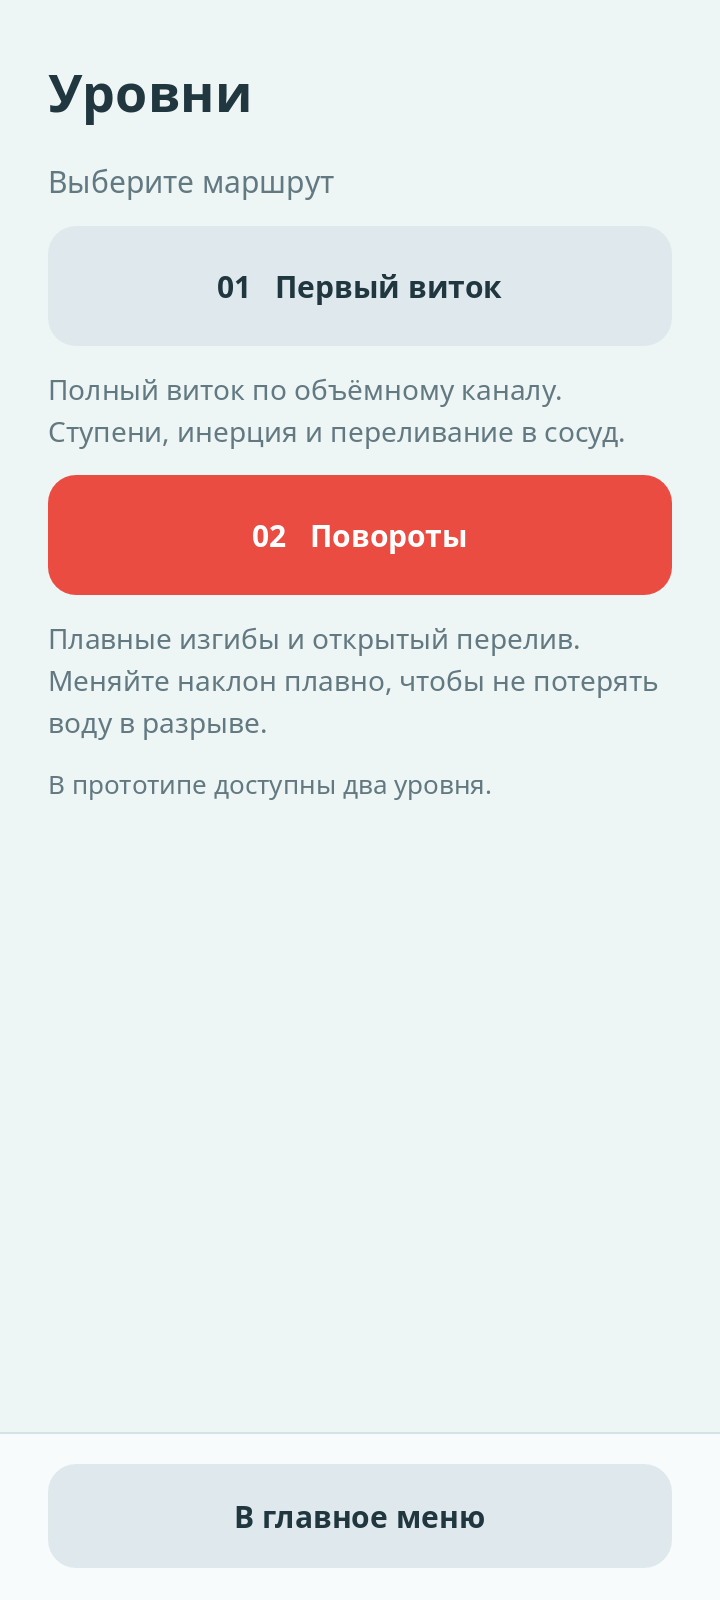
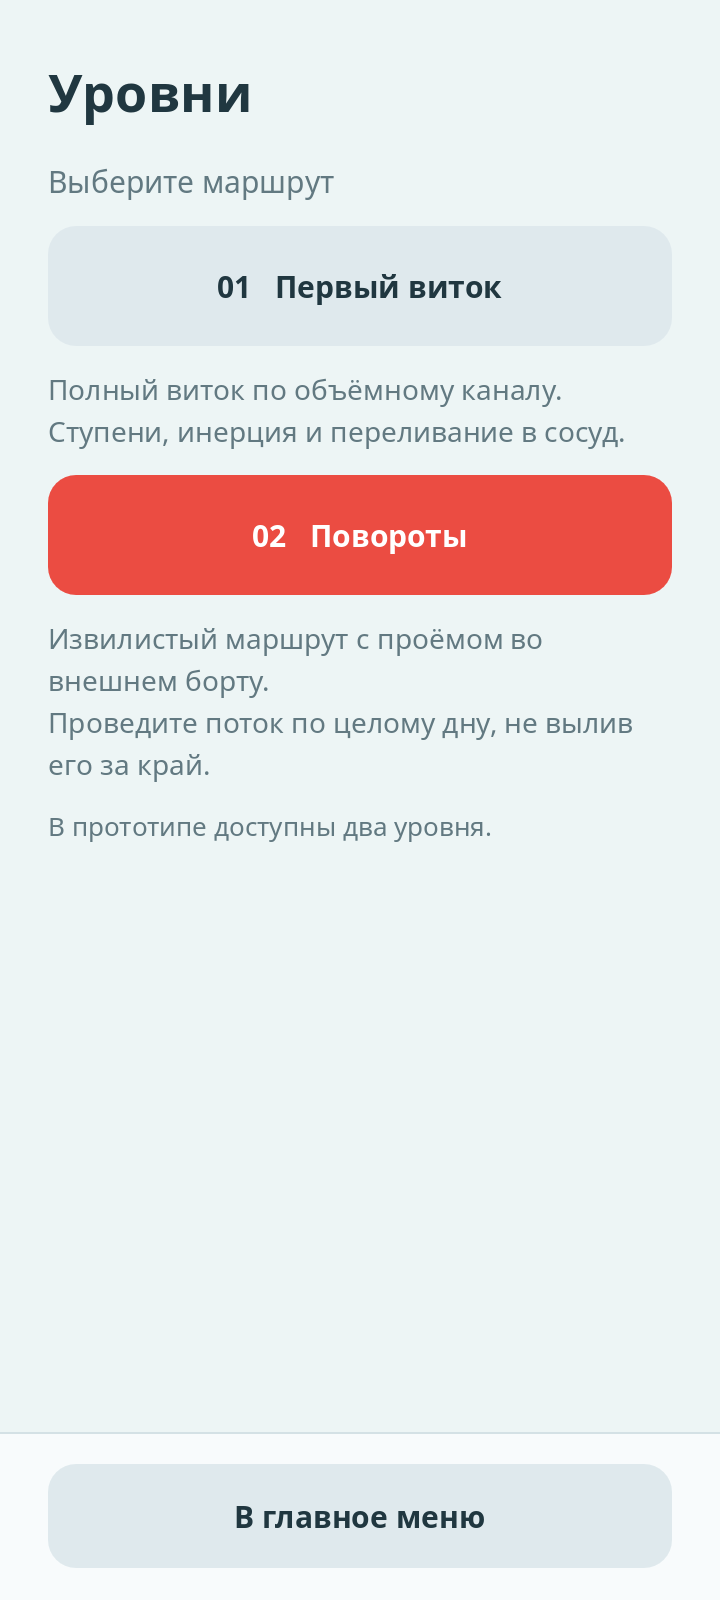
Move level two opening into outer bank and restore continuous floor

Changed region(s): [[0.0611, 0.375, 0.8861, 0.5312]]

diff --git a/native/src/fluid.cpp b/native/src/fluid.cpp
@@ -499,6 +499,19 @@ class NativeLiquidSolver : public RefCounted {
             if (std::max({previous.y, candidate.y, point.y}) >= top - radius) over_rim[i] = 1;
             if (!escaped[i] && !bounds.has_point(Vector2(point.x, point.z))) {
                 escaped[i] = 1;
+                // A missing bank exposes a floor-height edge rather than the
+                // board's full-height rim. Track crossing that actual edge so
+                // deliberate side spills are not reported as terrain leaks.
+                if (!over_rim[i] && bounds.has_point(Vector2(previous.x,previous.z))) {
+                    float t=1.f;
+                    if (point.x<bounds.position.x) t=std::min(t,(bounds.position.x-previous.x)/(point.x-previous.x));
+                    if (point.x>=bounds.get_end().x) t=std::min(t,(bounds.get_end().x-previous.x)/(point.x-previous.x));
+                    if (point.z<bounds.position.y) t=std::min(t,(bounds.position.y-previous.z)/(point.z-previous.z));
+                    if (point.z>=bounds.get_end().y) t=std::min(t,(bounds.get_end().y-previous.z)/(point.z-previous.z));
+                    Vector3 crossing=previous.lerp(point,clampf(t,0,1));
+                    Vector2 inside(clampf(crossing.x,bounds.position.x+.001f,bounds.get_end().x-.001f),clampf(crossing.z,bounds.position.y+.001f,bounds.get_end().y-.001f));
+                    if (crossing.y>=floor_height(inside)-radius) over_rim[i]=1;
+                }
                 // Group nearby markers into a few visible spill cues.
                 bool nearby = false;
                 for (auto p : spill_points) if (p.distance_squared_to(point) < .16f) nearby = true;

diff --git a/docs/SPECIFICATION.ru.md b/docs/SPECIFICATION.ru.md
@@ -4,7 +4,7 @@
 
 Игра для Android с управлением жидкостью через наклон мобильного устройства. Игрок меняет направление действия силы тяжести, переливает жидкость по каналам и доставляет её в заданный сосуд. Вода может делиться на потоки, проходить через узкие отверстия, разбрызгиваться, стекать по ступеням, замерзать и испаряться.
 
-**Вода — единственная жидкость десятиуровневого демонстрационного прототипа.** Финальная игра может включать жидкости с различными физическими свойствами и уровни на их смешивание, разделение и взаимодействие. Это часть продуктовой концепции, а не уже реализованная возможность версии 0.11.
+**Вода — единственная жидкость десятиуровневого демонстрационного прототипа.** Финальная игра может включать жидкости с различными физическими свойствами и уровни на их смешивание, разделение и взаимодействие. Это часть продуктовой концепции, а не уже реализованная возможность версии 0.11.1.
 
 ## Визуальное направление
 
@@ -20,11 +20,11 @@
 
 Перезапуск и выход доступны в паузе; язык, чувствительность, выбор способа управления и настройка визуального наклона поля — в настройках главного меню. При сворачивании приложения симуляция останавливается. Альтернативный режим вращает сам трёхмерный уровень вокруг вертикальной оси под неподвижной ортографической камерой с более высоким ракурсом (45° по азимуту, 65° по высоте на первом уровне, 70° на втором). Внутренние участки каналов видны на всём обороте поля; стекло сохраняет видимость воды у бортов. Камера не кренится и не меняет масштаб; жест проецируется на плоскость поля. Гравитация вдоль игрового рельефа направлена вниз экрана. Ориентация сохраняется после отпускания и паузы; повтор сбрасывает её. Этот режим помогает при отсутствии датчика; клавиатура предназначена для разработки.
 
-## Версия 0.11 — два уровня
+## Версия 0.11.1 — два уровня
 
 **«Первый виток»**: трёхмерный террасный спиральный канал с полным оборотом на 360° и центральным сосудом. Маршрут: вниз, вправо, вверх, влево, снова вниз. Диагональные наклоны помогают провести растянутый поток через повороты. Порог победы — 80% частиц воды в приёмнике непрерывно в течение 0,75 с. Верхних ограничений по времени и штрафов нет. У канала четыре перепада высоты по 0,14. Вода может выплеснуться над конечными бортиками. Если остаток меньше 80% исходного объёма, открывается окно повторной попытки.
 
-**«Повороты»**: извилистый маршрут из четырёх кривых Безье с плавными стенками. Изгибы требуют заранее менять направление и дожидаться хвоста потока. После третьего желоба находится настоящий разрыв шириной 0,18 и нижний приёмный участок с перепадом 0,28; у него расширенный вход. Под разрывом нет дна или скрытой коллизии. Ровный поток долетает до нижнего участка, запоздалый поворот сбрасывает часть воды в проём. Ступени и края разрыва отмечены чёрно-жёлтыми полосами, у обычных ступеней нижняя штриховка меняет направление. Цель — те же 80% / 0,75 с.
+**«Повороты»**: извилистый маршрут из четырёх кривых Безье с плавными стенками. На наружной стороне нижнего изгиба есть проём шириной 0,65 в борту. **Дно непрерывно на всём пути**, включая место ошибочного отверстия из 0.11.0; верхний и нижний желоба соединены обычной ступенью. Игрок проводит воду вдоль канала, а не перебрасывает её через пустоту. Сильный наклон наружу выливает воду через боковой проём, плавное управление помогает удержать поток. Край пола и оба вертикальных торца проёма отмечены чёрно-жёлтыми полосами; стрелок, предлагающих вылить туда воду, нет. Цель — те же 80% / 0,75 с.
 
 Оба уровня доступны напрямую в выборе. Меню показывает выбранный номер и название, выбор сохраняется. После победы на первом уровне кнопка «Следующий уровень» начинает второй с закрытым источником и свежим объёмом воды. После второго доступны повтор и главное меню.
 
@@ -51,7 +51,7 @@
 | № | Название | Основная механика | Статус |
 | --- | --- | --- | --- |
 | 1 | Первый виток | Полный виток по спирали, диагональные наклоны, переливание | Реализован в 0.10 |
-| 2 | Повороты | Плавные S-образные изгибы, плавное управление и открытый перелив | Переделан в 0.11 |
+| 2 | Повороты | Плавные S-образные изгибы, плавное управление и проём в наружном борту | Исправлен в 0.11.1 |
 | 3 | Узкое горлышко | Вода проходит через малое отверстие | Запланирован |
 | 4 | Развилка | Разделение и повторный сбор потока | Запланирован |
 | 5 | Ступени | Перепады высоты и перетекание | Запланирован |

diff --git a/docs/VALIDATION.md b/docs/VALIDATION.md
@@ -1,6 +1,20 @@
 # Проверки прототипа
 
-## Версия 0.11.0
+## Версия 0.11.1 — проём во внешнем борту
+
+- **144 проверки физики и логики и 78 проверок OpenGL, интерфейса и касаний — 222 проверки, 0 ошибок.** Сохранены первый уровень, оба способа управления, локализация, пауза, выпуск и задержка результата.
+- Исправлено неверное понимание задачи: **отверстие в полу удалено**, желоба соединены непрерывным ступенчатым дном. Проём шириной **0,65** находится в наружном борту нижнего изгиба. Вода проходит уровень по полу; прыжок, лёд или переброс через пустоту не нужны.
+- В **3150 точках** совпадают высоты нативной геометрии и ресурса. Проверены отсутствие внутренних отверстий, непрерывность бывшего разрыва, сохранённый пол у проёма и высота соседней целой стенки. Одиночная капля стоит у проёма без проваливания; наклон наружу выливает её, а соседний целый борт удерживает при том же вводе.
+- Край открытого борта и **два вертикальных торца** отмечены чёрно-жёлтой разметкой. Под проёмом нет ложной нижней площадки со стрелкой, предлагающей вылить туда воду. [Кадр исправленной геометрии](second-bank.png).
+- При плавной смене направления физический сценарий доставил **82,874%**, потеряно за край **480 из 8192** маркеров. Слишком долгое удержание направления наружу доставило **29,529%**, потеряно **5422** маркера, повторная попытка необходима. В обоих сценариях потерь через отверстия в полу и сплошную геометрию **0**; доставленное + оставшееся + потерянное равно исходным 8192.
+- Через имитацию датчика, фильтрацию и игровой цикл доставлено **81,152%**. Через касания резервуара и контроллер вращения — **80,286%**. Оба сценария заканчиваются победой с обычной водой, без подмены результата или нормирования на уцелевший объём.
+- Учёт потерь использует высоту **реального края** в месте пересечения границы поля. Выливание через отсутствующий борт ниже общего верха стен не ошибочно считается утечкой сквозь геометрию. Само движение и свойства жидкости сохранены.
+- Описание второго уровня обновлено на русском и английском; **52 одинаковых непустых ключа**. Палитра, освещение, остальные уровни и режимы управления сохранены.
[1 lines of base64/hex data omitted]
+
+Пользовательская запись 0.11.0 просмотрена: вода действительно терялась через ошибочно сделанное отверстие в полу. Версия 0.11.1 пока не проверялась на физическом Android-устройстве; аппаратные FPS и нагрев не измерены.
+
+## Архив: версия 0.11.0
 
 - **138 проверок физики и логики и 76 проверок OpenGL-рендеринга и касаний — 214 проверок, 0 ошибок.** Сохранены первый уровень, датчики, оба языка, жесты, пауза, выпуск, доливание и переходы между уровнями.
 - [Исследование материалов](VISUAL_STUDY.ru.md): три варианта одной замороженной сцены. Выбран тёплый пол, нейтральное стекло, синяя вода, направленное освещение и узкое контактное затемнение у основания стен. Светотень работает на форме, а динамических проекционных теней под полем нет. Сохранён отрицательный тест с невидимым объектом и положительный контроль с явно включённой тенью.

diff --git a/docs/VISUAL_STUDY.ru.md b/docs/VISUAL_STUDY.ru.md
@@ -23,14 +23,14 @@
 - Пол — светлый тёплый, с небольшой разницей оттенков между высотами. Подложка темнее пола, чтобы границы стеклянного объёма не растворялись в фоне.
 - Стекло — нейтральное, с плавными непрерывными кромками. Прозрачность зависит от угла взгляда; ориентация боковой грани вычисляется в мировых координатах.
 - Вода — синее и менее высветленное тело, отражения на гранях, поглощение по локальной глубине. Меньше общего заполняющего света и больше направленного: верх и бока волн получают разную яркость.
-- Контактное затемнение — узкая градиентная полоса только вдоль реального примыкания стены к полу. Она принадлежит уровню, сохраняет положение при вращении и не отбрасывает след на фон. В проёме нет ложной тёмной площадки или полосы, изображающей дно.
-- Новый уровень использует кривые Безье в изображении и столкновениях. Пол под разрывом удалён, нижний приёмный желоб расширен. Чёрно-жёлтые полосы показывают край, а тёмная глубина — риск потери воды.
+- Контактное затемнение — узкая градиентная полоса только вдоль реального примыкания стены к полу. Она принадлежит уровню, сохраняет положение при вращении и не отбрасывает след на фон. У открытого борта нет нижней полосы или стрелки, которые могли бы выглядеть как продолжение маршрута наружу.
+- Уровень использует кривые Безье в изображении и столкновениях. В исправлении 0.11.1 пол восстановлен, а проём перенесён в наружный борт. Чёрно-жёлтые торцы и кромка пола показывают, где можно вылить воду.
 
-## Криволинейный маршрут и перелив
+## Проём в наружном борту — исправление 0.11.1
 
-![Вода пересекает настоящий разрыв](second-transfer.png)
+![Непрерывное дно и проём в наружной стене](second-bank.png)
 
-Это кадр нативной симуляции после плавной смены направления перед разрывом. Под струёй нет скрытого пола.
+В версии 0.11.0 разрыв ошибочно находился в полу. В 0.11.1 дно восстановлено, желоба соединены ступенью. Воду нужно вести мимо бокового проёма; сильный наклон наружу может вылить её с уровня. Палитра и освещение из исследования сохранены.
 
 ## Воспроизведение и источники
 
